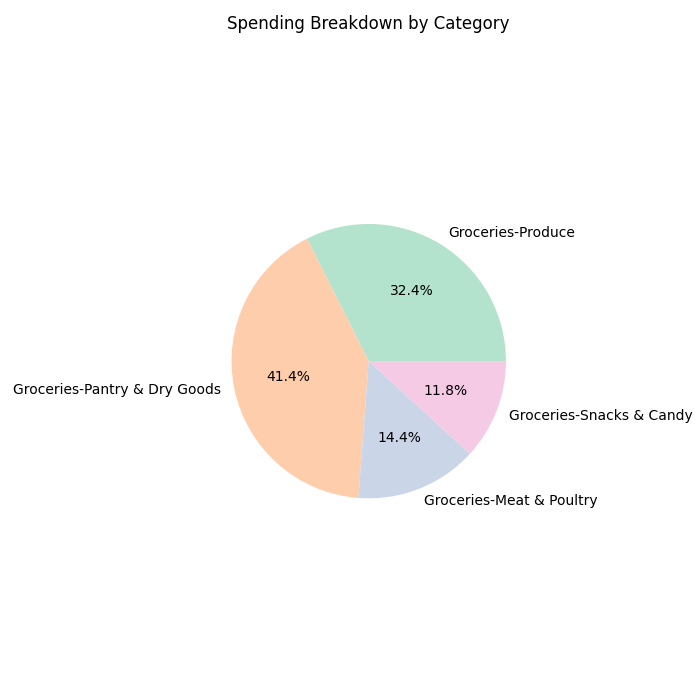
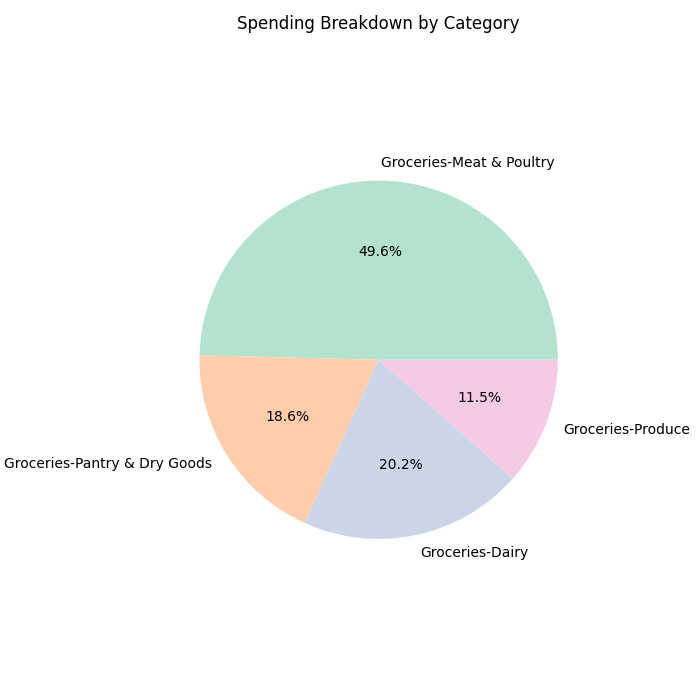
now successfully adds to database

diff --git a/receipt_analysis.py b/receipt_analysis.py
@@ -20,6 +20,7 @@ from azure.ai.documentintelligence import DocumentIntelligenceClient
 from azure.core.credentials import AzureKeyCredential
 import os
 import re
+import sqlite3
 
 def plot_pie_chart(data):
     if not data:
@@ -45,7 +46,7 @@ def plot_pie_chart(data):
 
     return "/" + output_path
 
-def analyze_receipt(input_file_name):
+def analyze_receipt(input_file_name, uid):
     #print("Starting receipt analysis")
     # Loading the environment variables
     #load_dotenv()
@@ -70,9 +71,13 @@ def analyze_receipt(input_file_name):
             content_type="application/octet-stream"
         )
 
+    conn = sqlite3.connect("db.db")
+    cur = conn.cursor()
+
     extracted_items = ""
     result = poller.result()
     outputs = []
+    items_for_db = []
 
     #display results
     #print("Receipt Analysis Results:")
@@ -81,25 +86,24 @@ def analyze_receipt(input_file_name):
         for document in result.documents:       
             items = document.fields["Items"].value_array
 
-            for i, item in enumerate(items):
+            for item in items:
                 #get price
                 item_value = item.value_object
                 if item_value.get("TotalPrice"):
                     item_total = item_value.get("TotalPrice").content
                 else:
-                    item_total = "N/A"
+                    item_total = "0.00"
 
                 item_total = re.sub(r'[^\d.\-]', '', item_total).strip()
                 if item_total.endswith('-'):
                     item_total = item_total[:-1].strip()
                 
                 try:
-                    if item_total != "N/A":
-                        finalCost += float(item_total)
-                except (ValueError, AttributeError):
-                    print("Error parsing receipt item total:", item_total)
+                    price = round(float(item_total), 2)
+                except (ValueError, TypeError):
+                    price = 0.00
 
-
+                finalCost += price
 
                 #get item name
                 possible_name_keys = ["Name", "Description", "Item", "Product", "Title"]
@@ -112,7 +116,13 @@ def analyze_receipt(input_file_name):
                 if not item_name:
                     item_name = "Unnamed Item"
 
-                outputs.append(item_name + " || total: $" + item_total)
+                category    = item_value.get("Category",    {}).get("content", "Other")
+                subcategory = item_value.get("Subcategory", {}).get("content", "")
+
+                outputs.append(item_name + " || Price: $" + f"{price:.2f}")
+
+                items_for_db.append((item_name, price, category, subcategory))
+
             
             extracted_items = "\n".join(outputs)
 
@@ -175,9 +185,21 @@ def analyze_receipt(input_file_name):
     if message.function_call:
         arguments = json.loads(message.function_call.arguments)
         image_path = plot_pie_chart(arguments)
-    else:
-        # In case GPT didn't use the function call
-        print(message.content)
+
+    cur.execute(
+        "INSERT INTO receipt (uid, total_spend, image_path) VALUES (?, ?, ?)",
+        (uid, finalCost, image_path)
+    )
+    rid = cur.lastrowid
+
+    for name, price, category, subcategory in items_for_db:
+        cur.execute(
+            "INSERT INTO receiptData (rid, itemName, itemPrice, category, subcategory) VALUES (?, ?, ?, ?, ?)",
+            (rid, name, price, category, subcategory)
+        )
+
+    conn.commit()
+    conn.close()
             
     outputs.append(f"Subtotal: ${finalCost}")
     return "\n".join(outputs), image_path

diff --git a/app.py b/app.py
@@ -1,7 +1,7 @@
 from flask import Flask, render_template, request
 import os
 from receipt_analysis import analyze_receipt
-import magic # type: ignore
+import magic
 import sqlite3
 from flask import Flask, session, render_template, redirect, url_for, request
 
@@ -74,6 +74,9 @@ def signup():
 
 @app.route("/home", methods=["GET", "POST"])
 def home():
+    if 'uid' not in session:
+        return redirect(url_for('login'))
+    
     result = None
     image_path = None
     error = None
@@ -90,8 +93,8 @@ def home():
             if ext not in SUPPORTED_FORMATS or type not in ALLOWED_TYPES:
                 error = f"Unsupported or corrupted file. Allowed types: {', '.join(SUPPORTED_FORMATS)}."
             else:
-                result, image_path = analyze_receipt(filepath)
+                result, image_path = analyze_receipt(filepath, session["uid"])
     return render_template("home.html", result=result, image_path=image_path, error=error)
 
 if __name__ == '__main__':
-    app.run(host='0.0.0.0', port=8080, debug=True)
+    app.run(host='0.0.0.0', port=8081, debug=True)
